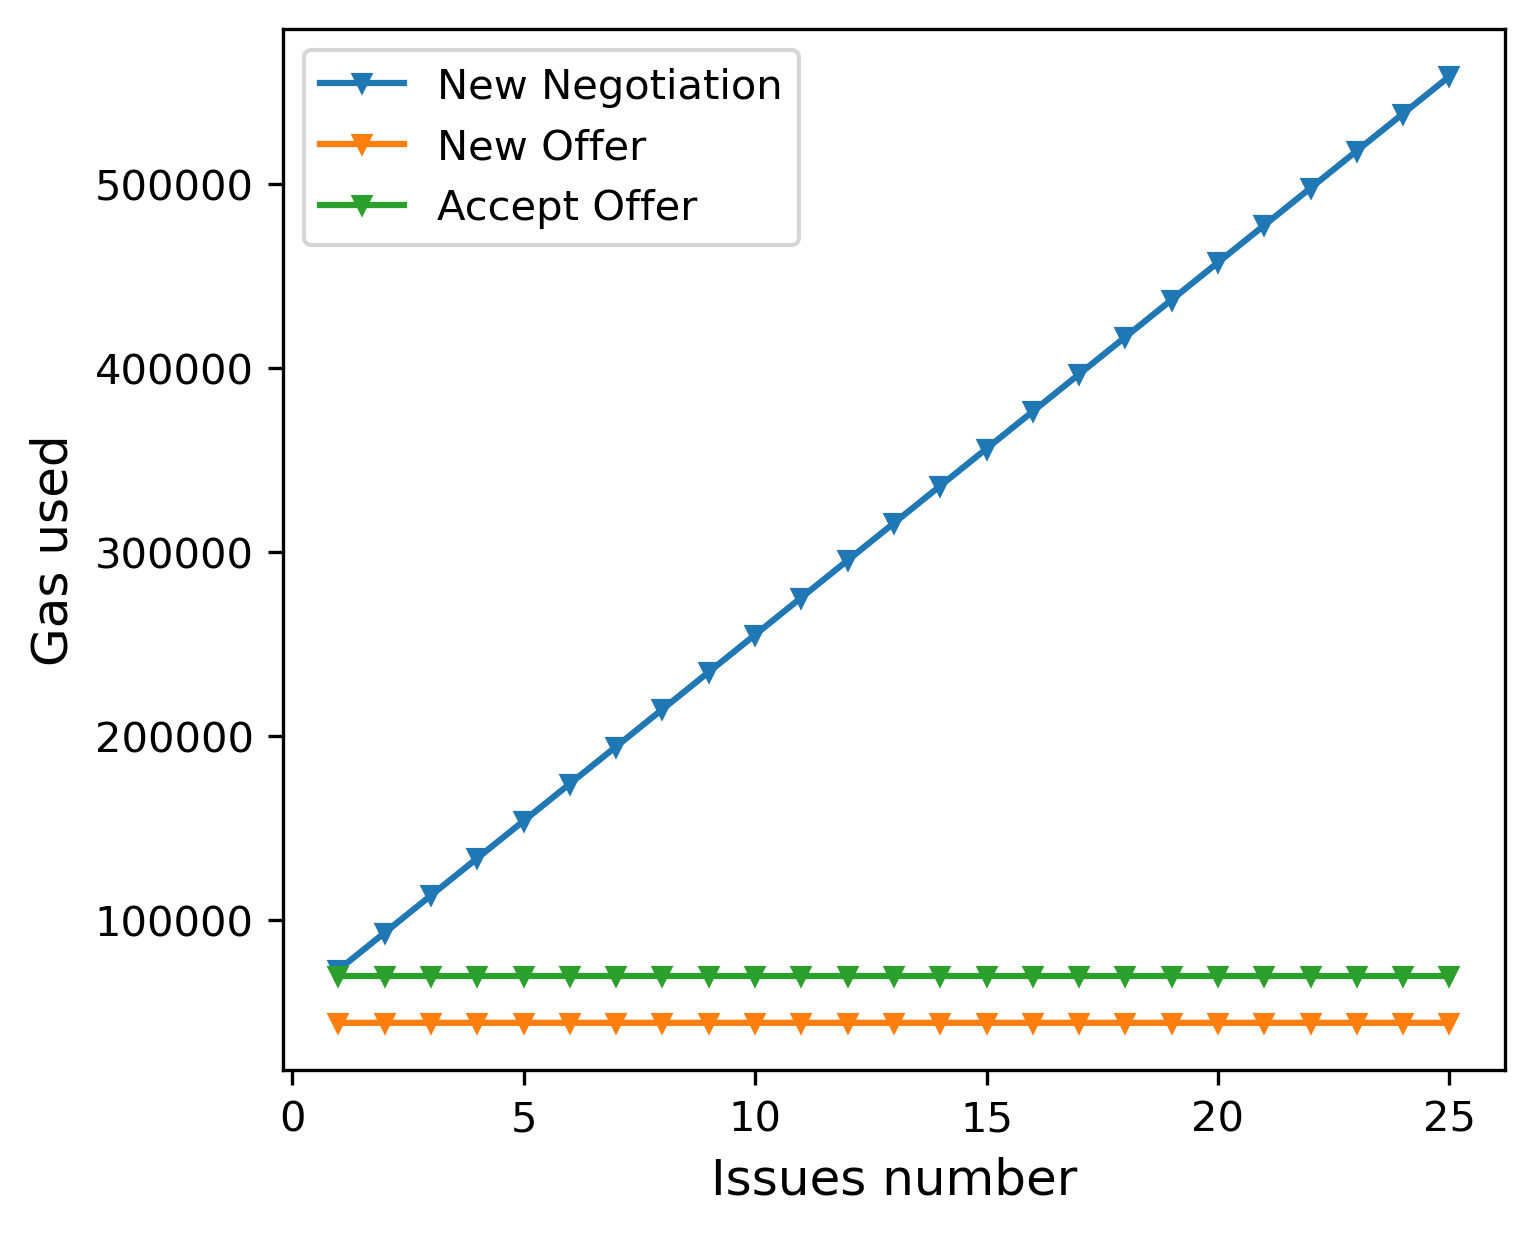
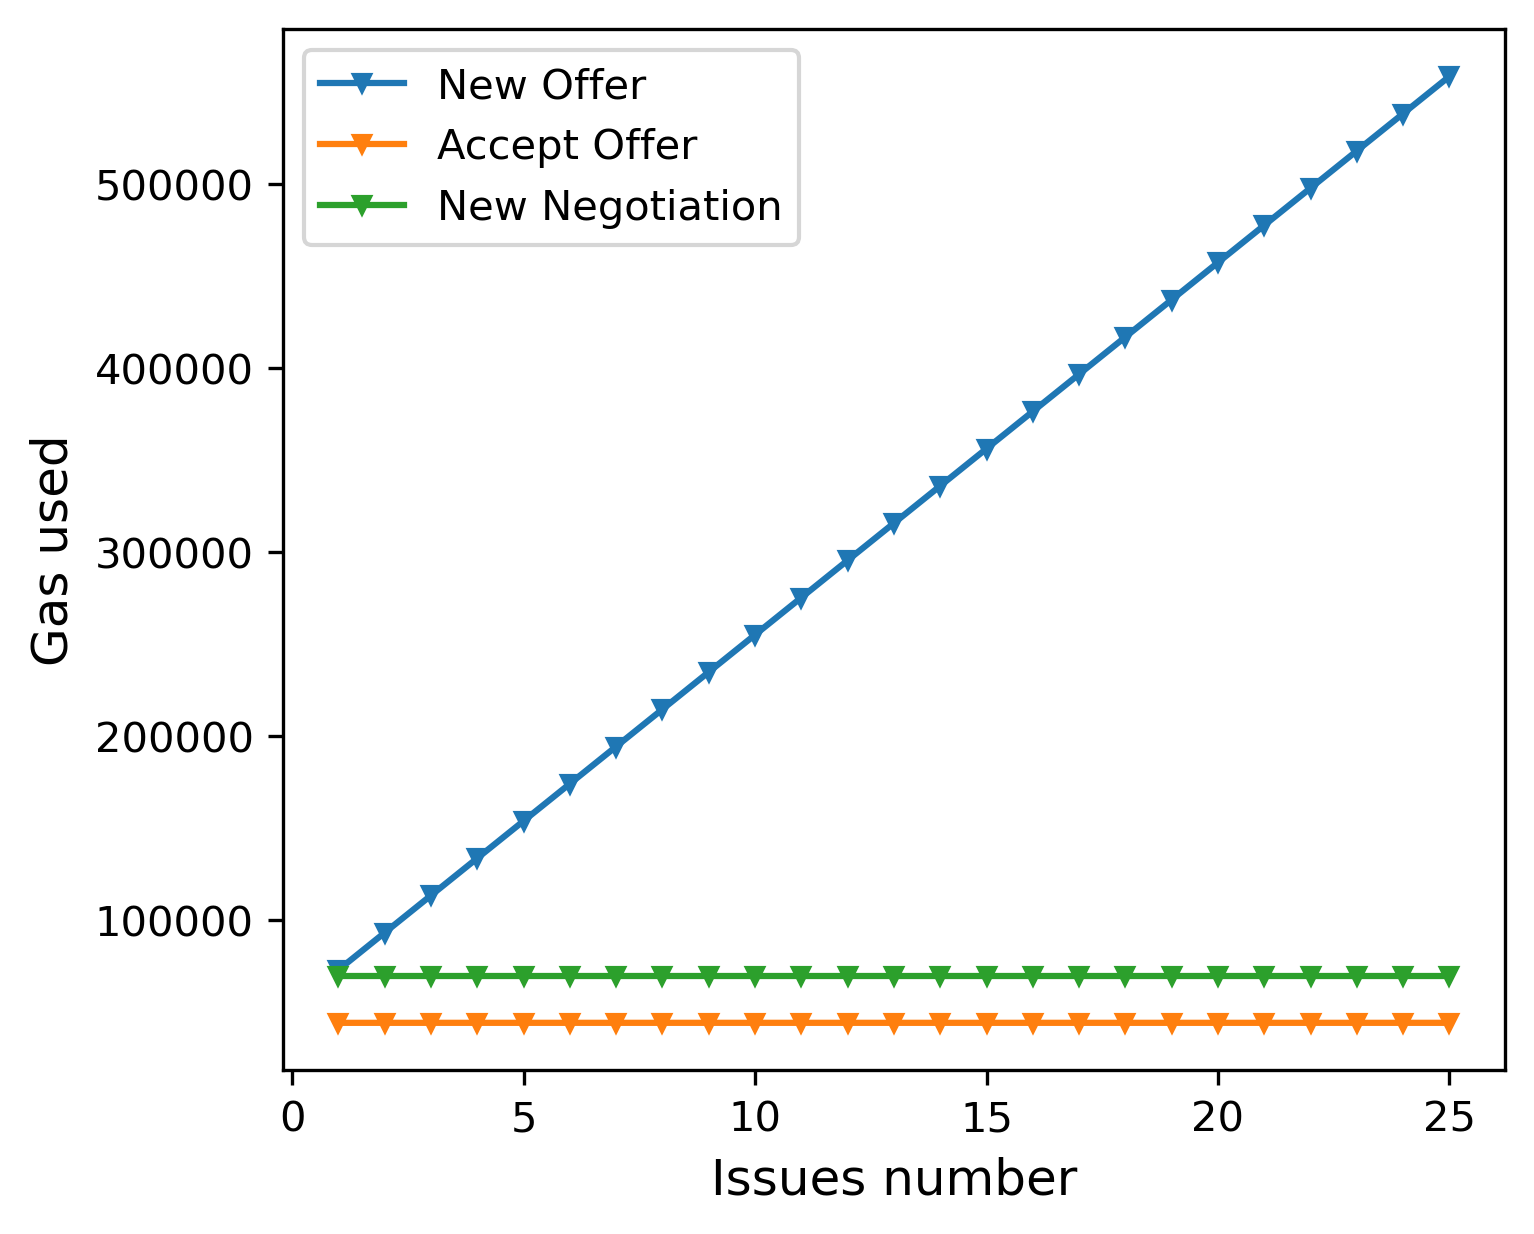
New plot2

Changed region(s): [[0.2757, 0.0616, 0.5209, 0.1848]]

diff --git a/statistics.py b/statistics.py
@@ -113,11 +113,11 @@ def plot22():
     plt.xlabel('Issues number', fontsize=12)
     # plt.ylim(72000, 558547)
     plt.plot(range(1, 26), gasMeasurementsOff, 'v', linestyle='-',
-             color=colors[0],  markersize=4, label='New Negotiation')
+             color=colors[0],  markersize=4, label='New Offer')
     plt.plot(range(1, 26), gasMeasurementsAcc, 'v', linestyle='-',
-             color=colors[1],  markersize=4, label='New Offer')
+             color=colors[1],  markersize=4, label='Accept Offer')
     plt.plot(range(1, 26), gasMeasurementsNeg, 'v', linestyle='-',
-             color=colors[2],  markersize=4, label='Accept Offer')
+             color=colors[2],  markersize=4, label='New Negotiation')
 
     plt.legend(title='')
     # plt.show()
